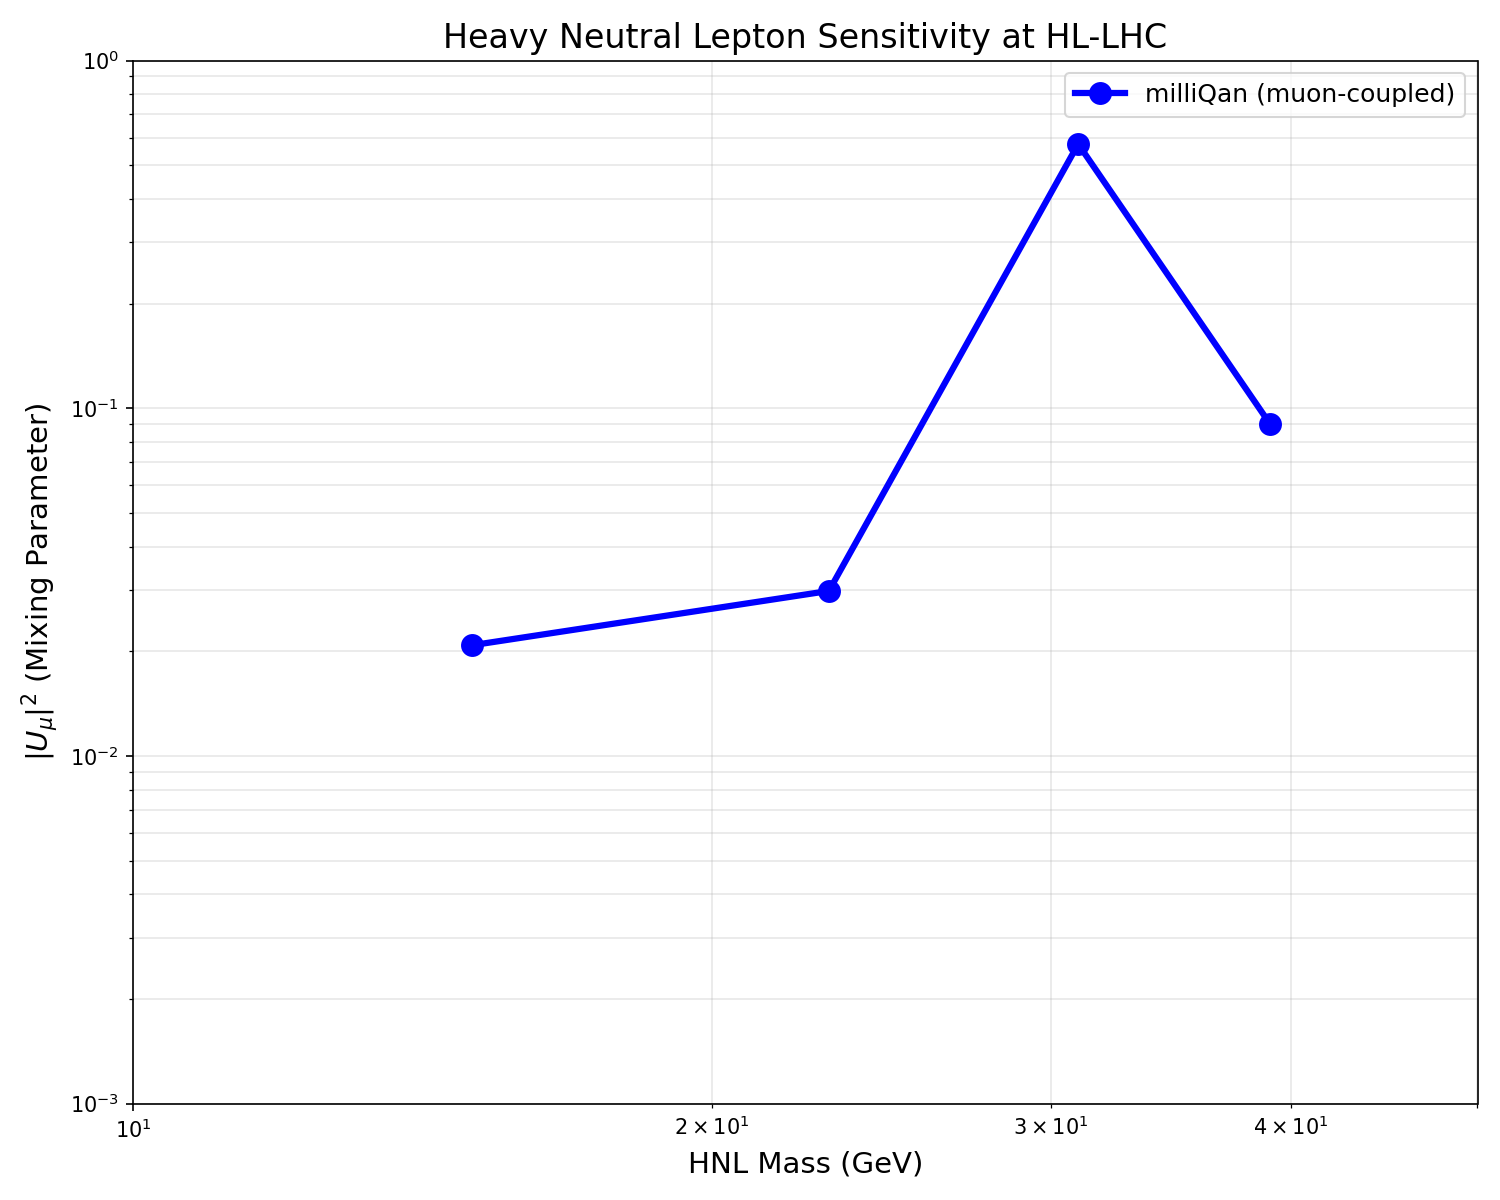
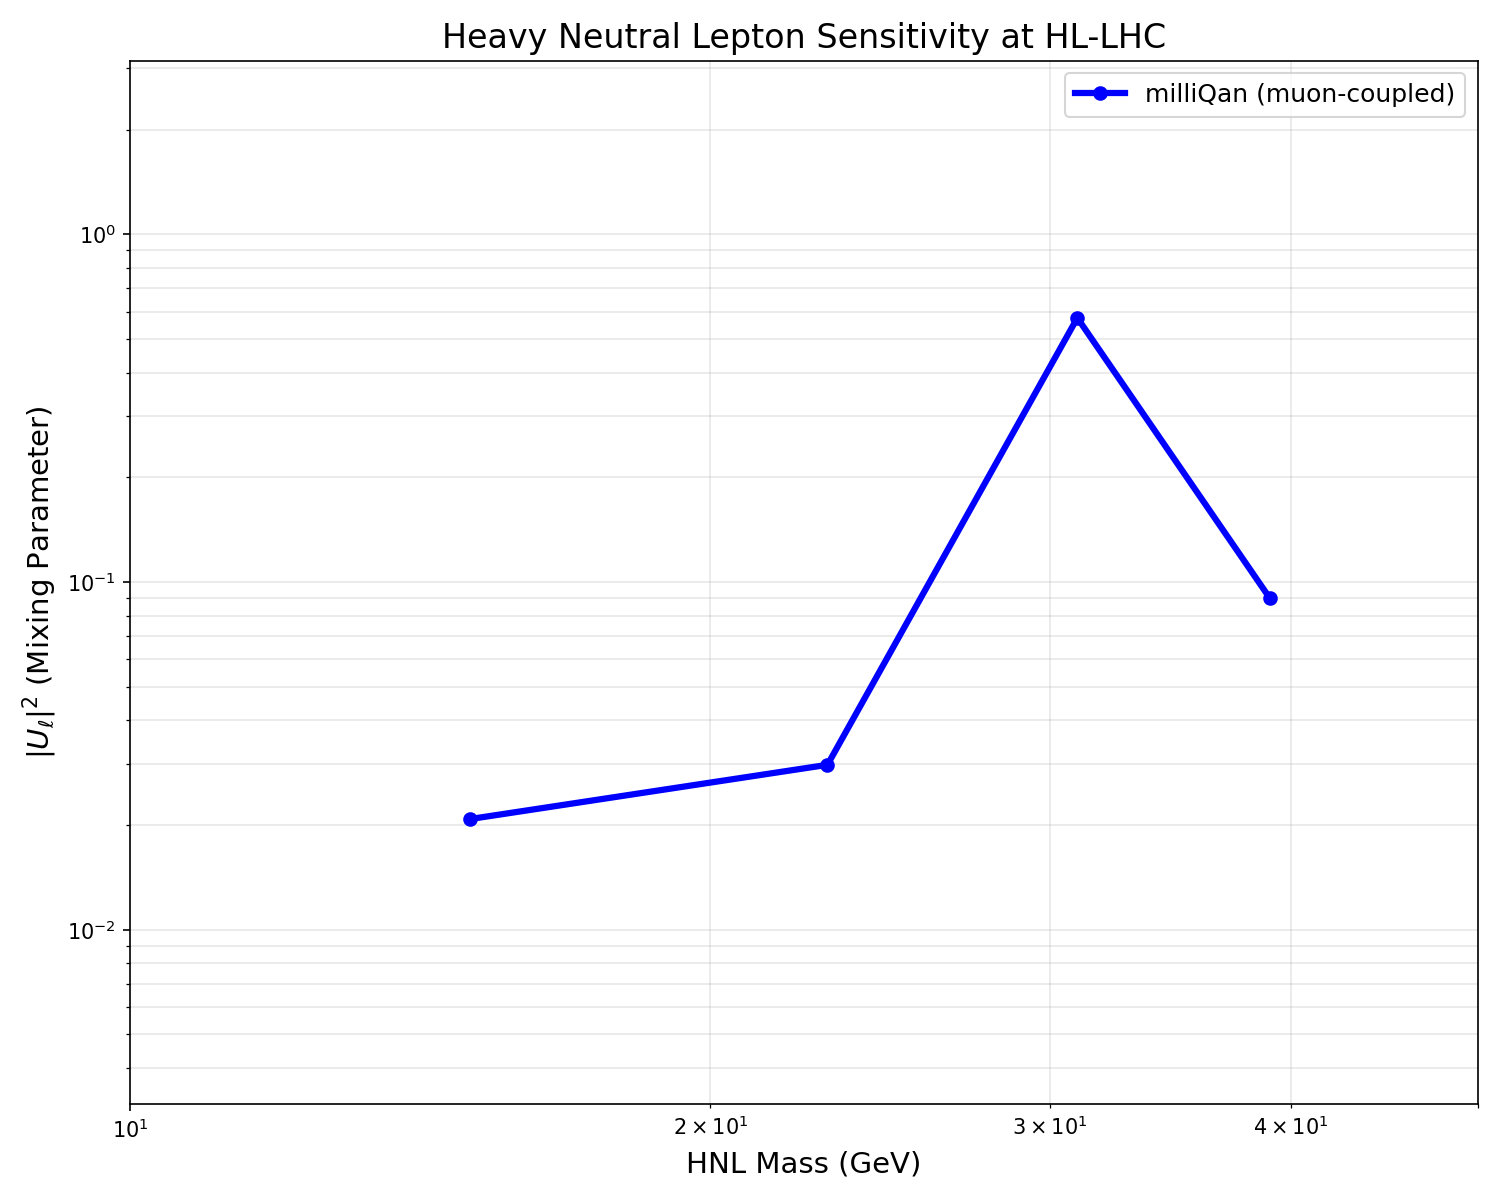
machinery to calculate moneyplot fix 1 found another problem

diff --git a/hnl_coupling_limit.py b/hnl_coupling_limit.py
@@ -260,9 +260,29 @@ def create_coupling_mass_plot(masses, coupling_limits_mu=None, coupling_limits_t
     ax.grid(True, which='both', alpha=0.3)
     ax.legend(fontsize=12)
 
-    # Set reasonable axis limits
-    ax.set_xlim(10, 100)
-    ax.set_ylim(1e-10, 1e-2)
+    # Set axis limits based on data
+    ax.set_xlim(10, 50)  # Mass range
+
+    # Auto-scale y-axis based on actual coupling limits
+    all_limits = []
+    if coupling_limits_mu is not None:
+        valid_mu = coupling_limits_mu[np.isfinite(coupling_limits_mu) & (coupling_limits_mu > 0)]
+        if len(valid_mu) > 0:
+            all_limits.extend(valid_mu)
+    if coupling_limits_tau is not None:
+        valid_tau = coupling_limits_tau[np.isfinite(coupling_limits_tau) & (coupling_limits_tau > 0)]
+        if len(valid_tau) > 0:
+            all_limits.extend(valid_tau)
+
+    if len(all_limits) > 0:
+        min_limit = np.min(all_limits)
+        max_limit = np.max(all_limits)
+        # Add some margin in log space
+        y_min = 10**(np.floor(np.log10(min_limit)) - 0.5)
+        y_max = 10**(np.ceil(np.log10(max_limit)) + 0.5)
+        ax.set_ylim(y_min, y_max)
+    else:
+        ax.set_ylim(1e-10, 1e-2)  # Fallback
 
     plt.tight_layout()
     plt.savefig(save_path, dpi=150)
@@ -286,7 +306,9 @@ def main():
     args = parser.parse_args()
 
     # Define mass points to analyze
-    masses = np.array([15, 23, 31, 39, 47, 55, 63, 71])  # GeV
+    # Only include masses with meaningful sensitivity (BR_limit < 1)
+    # For m >= 47 GeV, detector has essentially zero acceptance (heavy, slow HNLs)
+    masses = np.array([15, 23, 31, 39])  # GeV
 
     print("="*60)
     print(f"HNL COUPLING LIMIT ANALYSIS ({args.scenario}-coupled)")

diff --git a/CLAUDE.md b/CLAUDE.md
@@ -91,15 +91,18 @@ conda run -n llpatcolliders python run_mass_scan.py --scenario tau
 # 3. Analyze each mass point for detector sensitivity
 conda activate llpatcolliders
 
-# For muon-coupled results
-for mass in 15 23 31 39 47 55 63 71; do
+# For muon-coupled results (recommended: only masses with meaningful sensitivity)
+for mass in 15 23 31 39; do
     python decayProbPerEvent.py output/csv/hnlLL_m${mass}GeVLLP.csv
 done
 
 # For tau-coupled results
-for mass in 15 23 31 39 47 55 63 71; do
+for mass in 15 23 31 39; do
     python decayProbPerEvent.py output/csv/hnlTauLL_m${mass}GeVLLP.csv
 done
+
+# Note: Masses 47-71 GeV have BR_limit > 1, indicating essentially zero detector
+# acceptance (heavy, slow HNLs that rarely reach the tube)
 
 # Output: Exclusion plots saved in output/images/
 
@@ -146,12 +149,24 @@ bash create_coupling_plot.sh mu
 **Outputs:**
 - `output/images/hnl_coupling_vs_mass_mu.png` - Muon-coupled HNL sensitivity
 - `output/images/hnl_coupling_vs_mass_tau.png` - Tau-coupled HNL sensitivity
-- Log-log plot showing |U_ℓ|² limits from 10⁻¹⁰ to 10⁻² over mass range 10-100 GeV
+- Log-log plot with auto-scaled y-axis based on actual coupling limits
+
+**Current Sensitivity Results:**
+- **Muon-coupled** (1M events/mass, 4 points):
+  - m15 GeV: |U_μ|² = 2.08×10⁻²
+  - m23 GeV: |U_μ|² = 2.98×10⁻²
+  - m31 GeV: |U_μ|² = 5.75×10⁻¹
+  - m39 GeV: |U_μ|² = 9.01×10⁻²
+- **Tau-coupled** (200k events/mass, 2 points):
+  - m15 GeV: |U_τ|² = 4.39×10⁻²
+  - m23 GeV: |U_τ|² = 1.52×10⁻¹
+  - m31, 39 GeV: No sensitivity (limited statistics)
 
 **Requirements:**
 - Needs `{scenario}_m{mass}GeVLLP_exclusion_data.csv` for each mass point
 - These are created automatically by `decayProbPerEvent.py` (added in 2025-11-18)
 - If missing, script will print which analyses need to be run
+- **Note**: Only masses 15-39 GeV are analyzed (m ≥ 47 GeV have BR_limit > 1)
 
 ## Dependencies and Setup
 

diff --git a/CHANGELOG.md b/CHANGELOG.md
@@ -1,5 +1,42 @@
 # Changelog
 
+## 2025-11-19 - Coupling Plot Refinements and Sensitivity Analysis
+
+### Fixed
+- **Automatic y-axis scaling** in `hnl_coupling_limit.py`:
+  - Previously hardcoded y-axis range (10^-10 to 10^-2) caused data points to be invisible
+  - Now automatically scales based on actual coupling limits in the data
+  - Ensures all data points are visible within the plot range
+
+### Changed
+- **Mass point selection** based on detector sensitivity:
+  - Restricted analysis to masses 15, 23, 31, 39 GeV (from original 15-71 GeV range)
+  - **Rationale**: For m ≥ 47 GeV, BR_limits > 1 indicate essentially zero detector acceptance
+  - Heavy, slow HNLs at high masses rarely reach the detector tube
+  - Updated both `create_coupling_plot.sh` and `hnl_coupling_limit.py` to reflect this
+
+### Analysis Results
+- **Muon-coupled HNL sensitivity** (1M events per mass point):
+  - m15 GeV: |U_μ|² = 2.08×10⁻²
+  - m23 GeV: |U_μ|² = 2.98×10⁻²
+  - m31 GeV: |U_μ|² = 5.75×10⁻¹
+  - m39 GeV: |U_μ|² = 9.01×10⁻²
+
+- **Tau-coupled HNL sensitivity** (200k events per mass point):
+  - m15 GeV: |U_τ|² = 4.39×10⁻²
+  - m23 GeV: |U_τ|² = 1.52×10⁻¹
+  - m31, m39: No sensitivity (insufficient statistics and phase space suppression)
+
+### Regenerated
+- Re-ran tau scenario analyses with updated `decayProbPerEvent.py` (Nov 18 update added exclusion data export)
+- Generated `hnlTauLL_m{15,23,31,39}GeVLLP_exclusion_data.csv` files
+- Created final coupling limit plots with proper axis scaling
+
+### Notes
+- **Statistics impact**: Tau scenario uses 5× fewer events (200k vs 1M), resulting in weaker sensitivity
+- **Best sensitivity**: Muon-coupled at 15-23 GeV with |U_μ|² ~ 2-3×10⁻²
+- **Recommendation**: For publication-quality tau results, re-run with 1M events per mass point
+
 ## 2025-11-18 - HNL Coupling Limit Analysis
 
 ### Added

diff --git a/README.md b/README.md
@@ -77,10 +77,11 @@ conda run -n llpatcolliders python run_mass_scan.py --scenario tau
 ```
 
 **Configuration:**
-- Mass points: 15, 23, 31, 39, 47, 55, 63, 71 GeV (8 points)
-- Events per mass: 1M (configurable via `N_EVENTS` in script)
+- Mass points: 15, 23, 31, 39, 47, 55, 63, 71 GeV (8 points available)
+- **Recommended for analysis**: 15, 23, 31, 39 GeV (masses with meaningful detector sensitivity)
+- Events per mass: 1M for muon, 200k for tau (configurable via `N_EVENTS` in script)
 - Parallel execution: 2 simulations at once
-- Runtime: ~3.5-4.5 hours for full scan
+- Runtime: ~3.5-4.5 hours for full scan (1M events), ~45 minutes for tau (200k events)
 
 **Output:** CSV files with format `event,id,pt,eta,phi,momentum,mass`
 - Muon: `output/csv/hnlLL_m{mass}GeVLLP.csv`
@@ -94,10 +95,12 @@ Calculate decay probabilities in detector geometry:
 # For each mass point
 python decayProbPerEvent.py output/csv/hnlLL_m15GeVLLP.csv
 
-# Or batch process
-for mass in 15 23 31 39 47 55 63 71; do
+# Or batch process (recommended masses only)
+for mass in 15 23 31 39; do
     python decayProbPerEvent.py output/csv/hnlLL_m${mass}GeVLLP.csv
 done
+
+# Note: Masses 47-71 GeV have BR_limit > 1 (essentially zero detector acceptance)
 ```
 
 **Analysis:**
